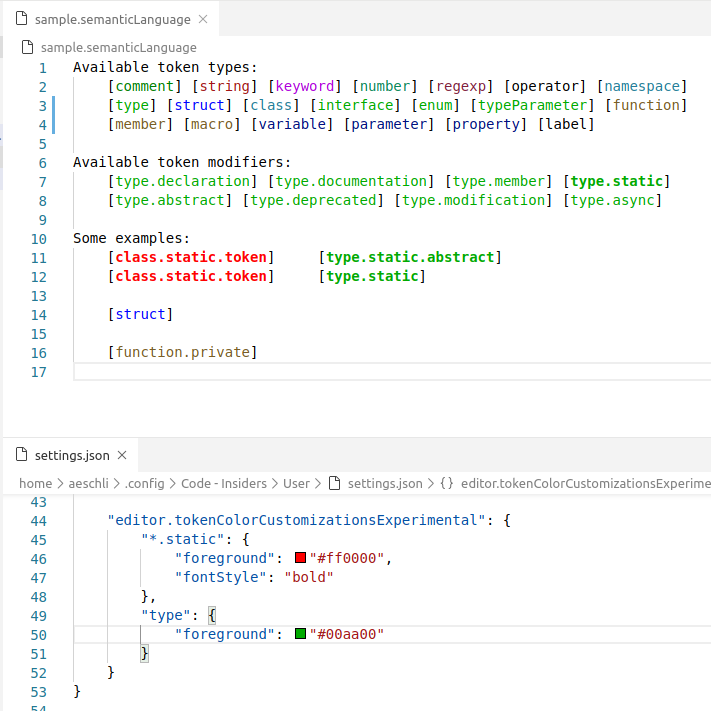
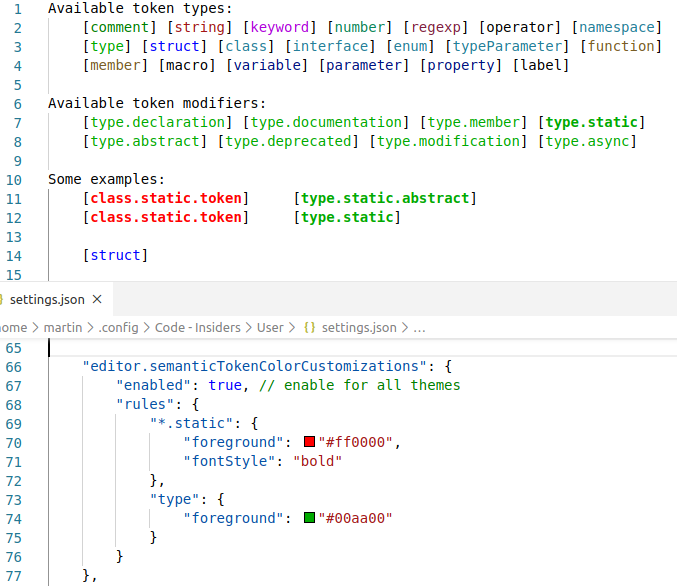
update readme and screenshot

diff --git a/semantic-tokens-sample/README.md b/semantic-tokens-sample/README.md
@@ -2,7 +2,7 @@
 
 This is an extension sample showing a very simple semantic tokens provider. This semantic tokens provider always returns all the tokens in a file.
 
-For more background on semantic highlighting read [here](https://github.com/microsoft/vscode/wiki/Semantic-Highlighting-Overview)
+For more background on semantic highlighting read [here](https://code.visualstudio.com/api/language-extensions/semantic-highlight-guide)
 
 ![Screenshot](demo.png)
 
@@ -11,13 +11,16 @@ For more background on semantic highlighting read [here](https://github.com/micr
 Launch the extension and open the file `sample/sample.semanticLanguage` and use the following settings:
 
 ```json
-"editor.tokenColorCustomizationsExperimental": {
-	"*.static": {
-		"foreground": "#ff0000",
-		"fontStyle": "bold"
-	},
-	"type": {
-		"foreground": "#00aa00"
+"editor.semanticTokenColorCustomizations": {
+	"enabled": true, // enable for all themes
+	"rules": {
+		"*.static": {
+			"foreground": "#ff0000",
+			"fontStyle": "bold"
+		},
+		"type": {
+			"foreground": "#00aa00"
+		}
 	}
 }
 ```
